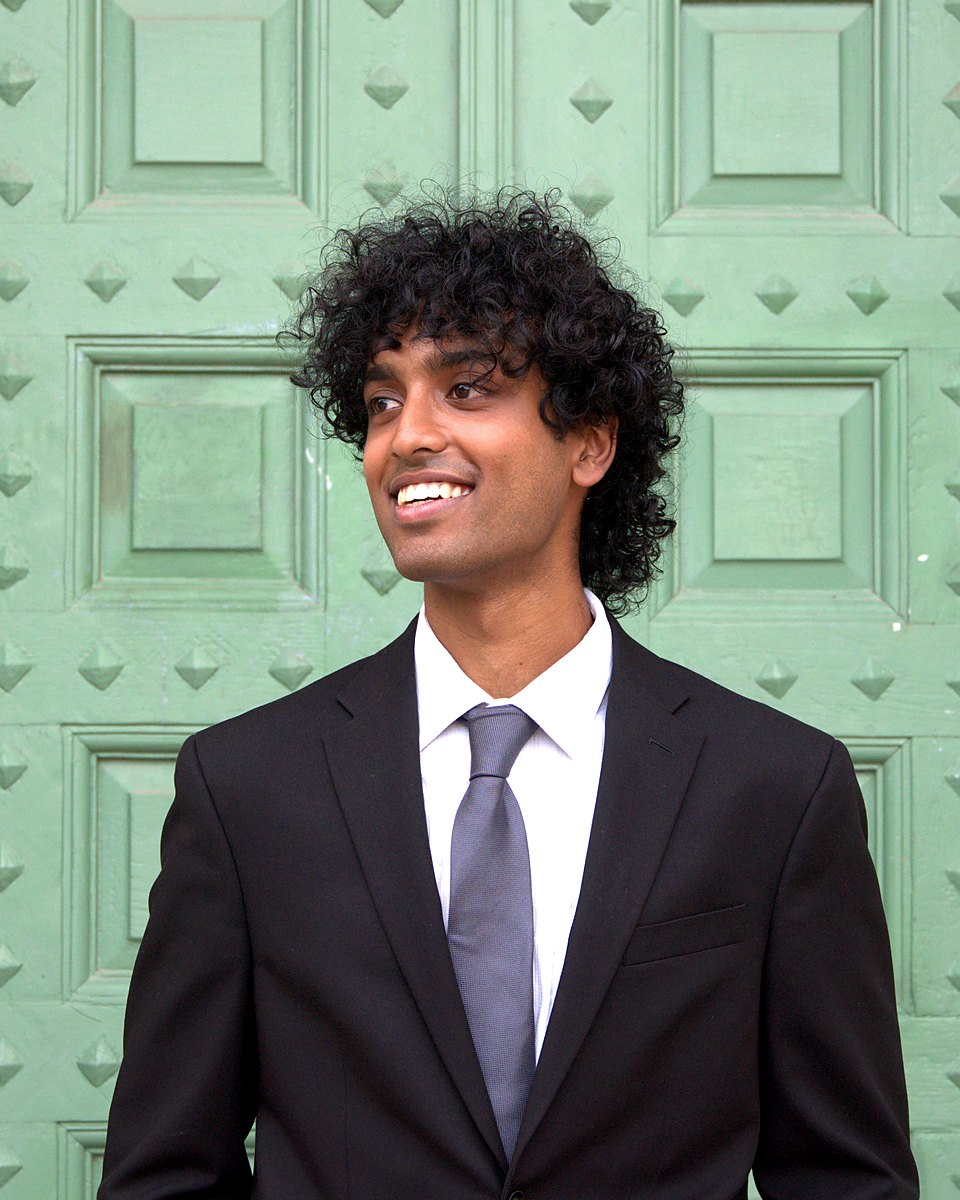
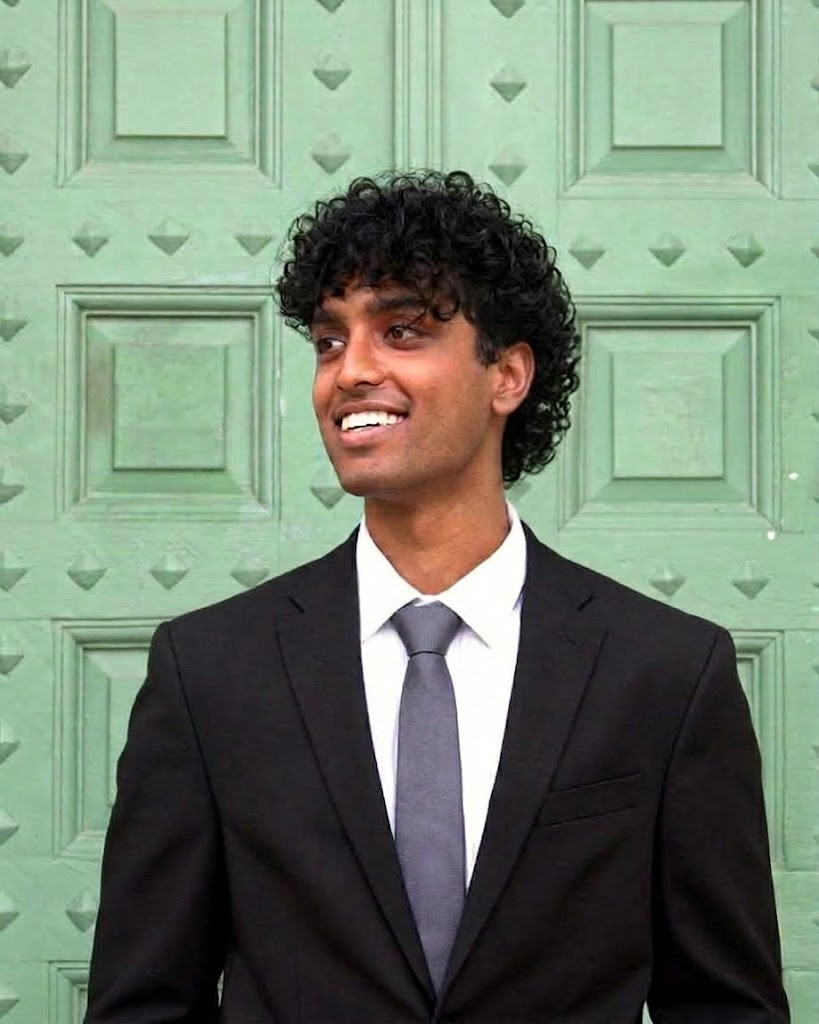
Swap in new headshot
Claude-Session: https://claude.ai/code/session_01ATWJJ8MvEn9Ay1ZMuxNdpa

diff --git a/index.html b/index.html
@@ -172,7 +172,7 @@
       <a class="btn" href="resume.pdf">Resume (PDF)</a>
     </div>
     </div>
-    <img class="headshot" src="img/headshot.jpg" alt="Manish Chander" width="960" height="1200">
+    <img class="headshot" src="img/headshot.jpg?v=2" alt="Manish Chander" width="819" height="1024">
     </div>
     <div class="stats">
       <div><b>Nanoscale Design &amp; Manufacturing Lab</b><span>Researcher in additive manufacturing of microelectronics</span></div>
